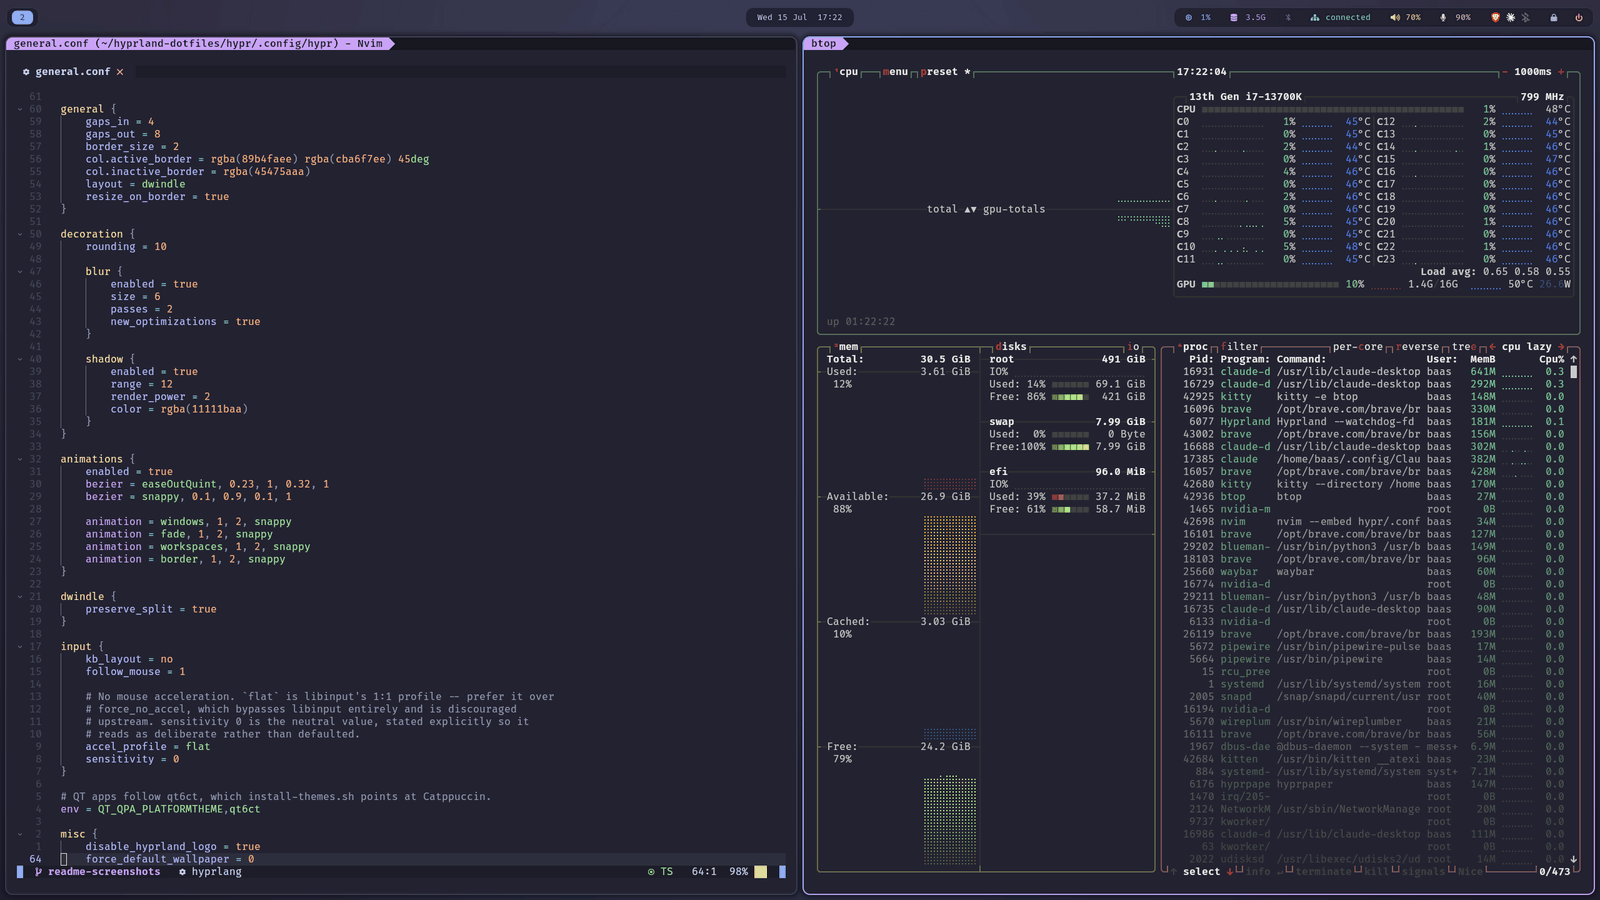
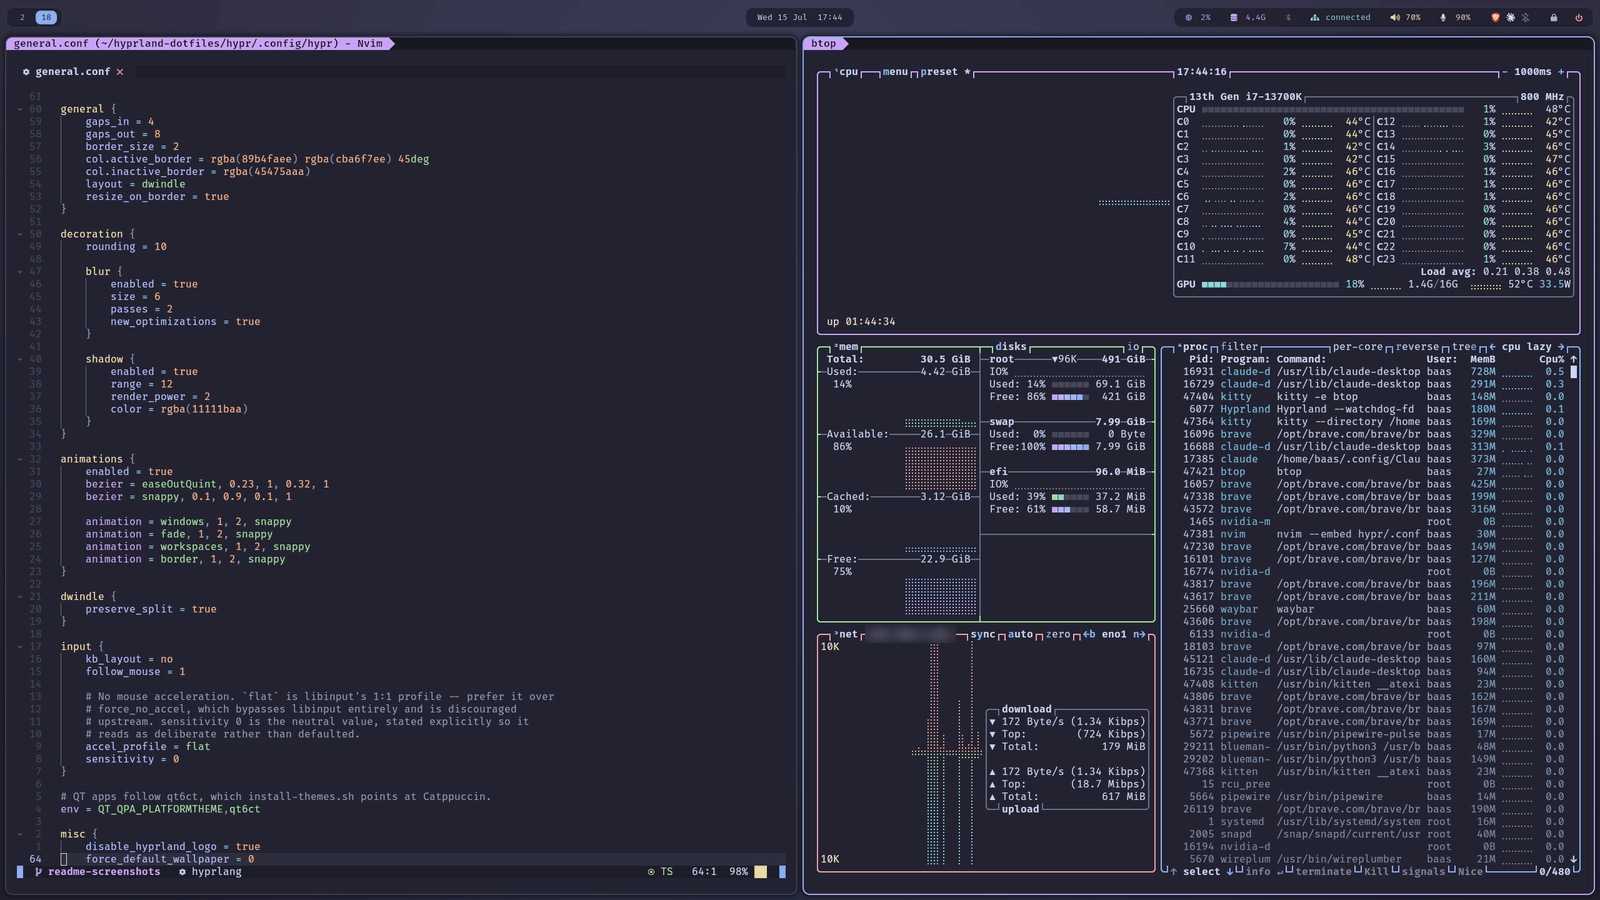
Add btop config so it matches the rice; retake the hero screenshot
btop rendered on a black background because there was no ~/.config/btop
at all -- it fell back to built-in defaults, which means its own colours
and a black main_bg. The distro package ships no Catppuccin theme, so
vendor one and configure it.

The README screenshot did not show this because it cheated: to keep the
machine's LAN IP out of frame I had run btop against a throwaway
XDG_CONFIG_HOME, and that temp config also set theme_background = False.
So the published shot showed something the repo could not reproduce.
Retaken with the real config.

Two things worth recording, found by measuring rather than assuming:

- `color_theme` takes the *bare* theme name. My first attempt used
  `"themes/catppuccin_mocha.theme"`, which btop silently ignores -- no
  error, no log line, just a fallback to the black default.
- `theme_background = False` masks exactly that failure. With the theme not
  loading, False still produces a Catppuccin-looking background, because
  it is kitty's, not the theme's. Sampling the pixel with True set is what
  exposed it: srgb(0,0,0) with the path form, srgb(35,35,50) with the bare
  name. Had I not checked, this would have shipped broken with the symptom
  hidden.

Also verified btop does not rewrite btop.conf back through the stow
symlink on exit (clean quit and SIGTERM both leave it byte-identical) --
that is how the old machine.conf ended up committed.

The net box stays: it is useful, and only the IP string is blurred, so the
[…]

diff --git a/README.md b/README.md
@@ -54,6 +54,7 @@
 | **Launcher / power menu** | Rofi |
 | **Notifications** | mako |
 | **Terminal** | kitty |
+| **System monitor** | btop |
 | **Editor** | Neovim (AstroNvim) |
 | **Lock / idle** | hyprlock, hypridle |
 | **Wallpaper** | hyprpaper |
@@ -101,6 +102,7 @@ Each top-level directory is a stow package: its contents mirror `$HOME`, so
 ├── rofi/               # launcher, power menu (+ vendored Catppuccin palette)
 ├── mako/               # notifications
 ├── kitty/              # terminal (+ vendored Catppuccin theme)
+├── btop/               # system monitor (+ vendored Catppuccin theme)
 ├── nvim/               # AstroNvim config
 ├── hyprlock/           # lock screen
 ├── hypridle/           # idle handling
@@ -171,6 +173,25 @@ dark theme.
 vestigial and unused. It's why the menu is a small centred panel rather than a
 fullscreen overlay. It reuses the same palette as the launcher, so the two
 match by construction.
+</details>
+
+<details>
+<summary><b>btop</b> — the theme name must be bare, or you get a black box</summary>
+<br/>
+
+`color_theme` takes the **bare theme name** — not a path, not with the `.theme`
+suffix. `color_theme = "themes/catppuccin_mocha.theme"` is silently ignored:
+btop logs nothing, falls back to its built-in default, and the only symptom is
+a black background.
+
+`theme_background = False` makes btop draw the terminal's background instead of
+the theme's `main_bg`. Beware that it can *mask* the above: with the theme
+failing to load, False still yields a Catppuccin-looking background, because
+it's kitty's. If btop's colours look off, set it True to see what the theme is
+really painting.
+
+The distro package ships no Catppuccin theme, so it's vendored in
+`btop/.config/btop/themes/`.
 </details>
 
 <details>
@@ -293,7 +314,7 @@ RTX 5070 Ti (Blackwell), driver 595 open modules, two LG UltraGears at
 
 ```bash
 cd ~/hyprland-dotfiles
-stow -D -t "$HOME" hypr waybar rofi mako kitty nvim hyprlock hypridle theme
+stow -D -t "$HOME" hypr waybar rofi mako kitty btop nvim hyprlock hypridle theme
 ```
 
 <p align="center">